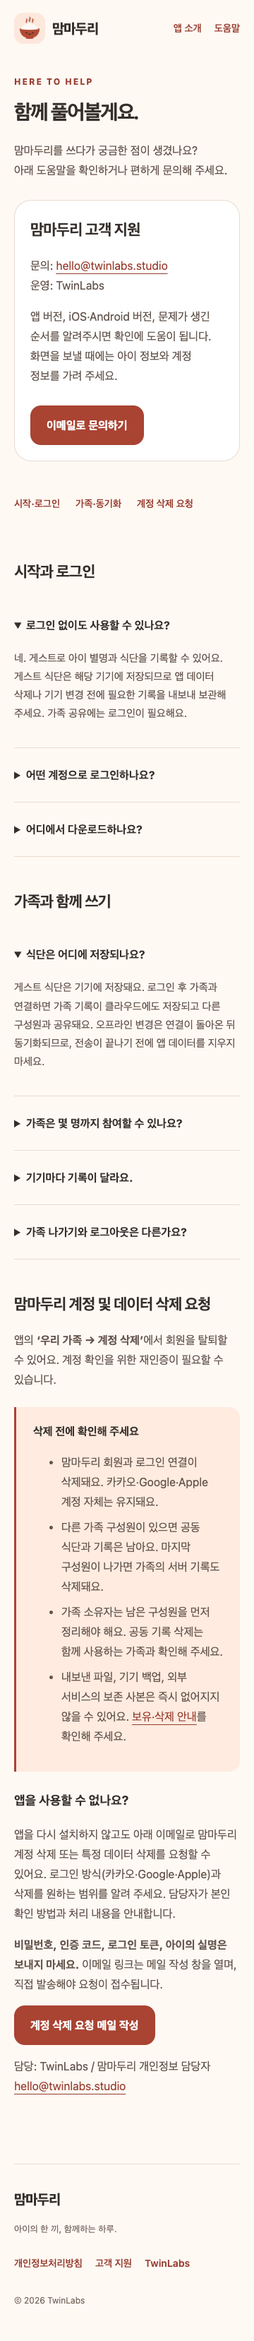
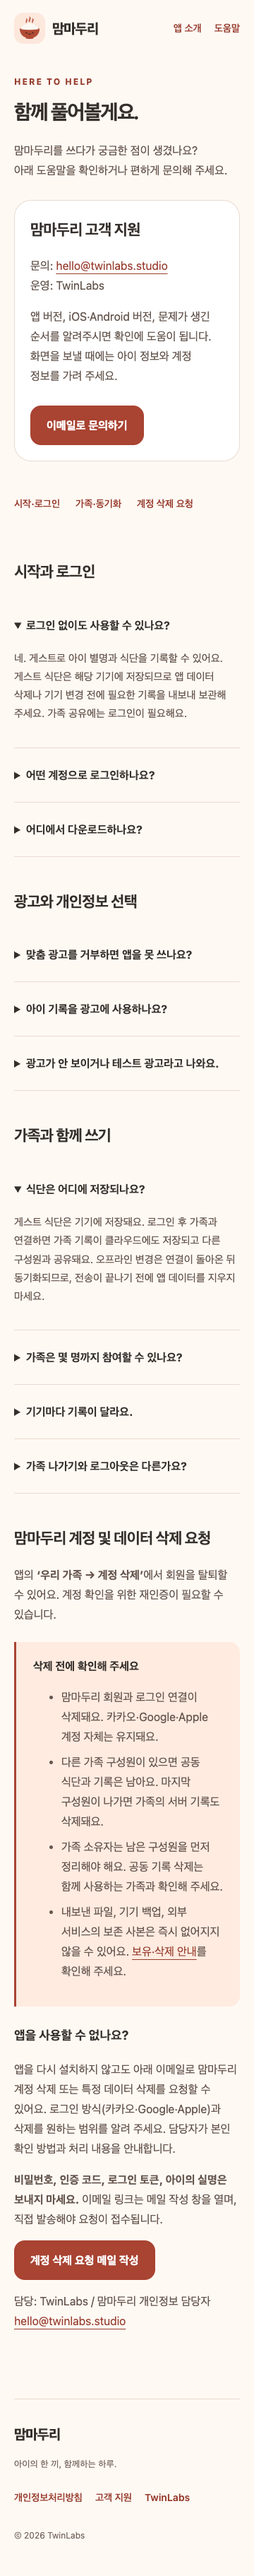
Update Mammaduri privacy and advertising disclosures

diff --git a/mammaduri/privacy-policy.html b/mammaduri/privacy-policy.html
@@ -6,10 +6,10 @@
     <meta name="robots" content="noindex" />
     <meta
       name="description"
-      content="맘마두리의 기기 저장, 로그인, 가족 공유와 개인정보 삭제에 관한 안내 검토본."
+      content="맘마두리의 기기 저장, 로그인, 가족 공유, 광고와 개인정보 삭제에 관한 안내."
     />
     <meta name="theme-color" content="#fff9f4" />
-    <title>개인정보처리방침 검토본 · 맘마두리</title>
+    <title>개인정보처리방침 · 맘마두리</title>
     <link rel="icon" href="assets/icon.png" />
     <link rel="stylesheet" href="style.css" />
   </head>
@@ -30,18 +30,15 @@
         운영자: TwinLabs<br />개인정보 문의: 맘마두리 개인정보 담당자 ·
         <a href="mailto:hello@twinlabs.studio">hello@twinlabs.studio</a>
       </p>
-      <aside class="notice" aria-label="검토본 상태">
-        <strong>시행 전 검토본</strong>
-        <p>작성일: 2026년 10월 5일 · 시행일: 공개 전 확정</p>
-        <p>
-          현재 개발 버전의 동작을 기준으로 작성했습니다. 아래 ‘공개 전 확인
-          사항’을 확정한 뒤 정식 방침으로 게시합니다.
-        </p>
+      <aside class="notice" aria-label="방침 시행일">
+        <strong>맘마두리 개인정보처리방침</strong>
+        <p>시행일·최종 수정일: 2026년 10월 21일</p>
+        <p>현재 제공하는 식단 기록·가족 공유·광고 기능에 적용됩니다. 테스트 광고를 사용하는 버전도 광고 SDK의 정보 처리가 발생할 수 있습니다.</p>
       </aside>
       <nav class="toc" aria-label="방침 목차">
         <a href="#data">처리 정보</a><a href="#storage">저장·공유</a
         ><a href="#services">외부 서비스</a><a href="#retention">보유·삭제</a
-        ><a href="#rights">권리·문의</a><a href="#review">공개 전 확인</a>
+        ><a href="#advertising">광고·선택</a><a href="#rights">권리·문의</a><a href="#review">방침 변경</a>
       </nav>
       <section id="data">
         <h2>1. 어떤 정보를 왜 처리하나요?</h2>
@@ -90,6 +87,17 @@
                 </td>
               </tr>
               <tr>
+                <td>광고와 선택 정보</td>
+                <td>IP 주소와 이에 따른 대략적 위치, 광고·기기 식별자,
+                  광고 노출·상호작용 및 앱·SDK 진단 정보. 광고 제공·측정·부정 이용
+                  방지에 사용될 수 있습니다. 개인화 선택은 기기에 저장하며,
+                  지역별 동의 신호는 Google의 동의 관리 기능이 처리합니다.</td>
+              </tr>
+              <tr>
+                <td>서비스 보호</td>
+                <td>접속·오류·보안 로그, 기기·앱의 유효성 확인 신호, 요청 제한용으로 가공한 식별값과 횟수. 무단 접근·과도한 요청 방지에 사용합니다. 요청 제한 자료는 1일 후 만료 대상으로 설정하며 실제 정리 시점은 저장소 처리에 따릅니다.</td>
+              </tr>
+              <tr>
                 <td>문의</td>
                 <td>
                   발신 이메일, 사용자가 보낸 문의 및 첨부 자료. 문의 답변과 문제
@@ -100,9 +108,11 @@
           </table>
         </div>
         <p>
-          현재 버전에는 광고·분석·충돌 수집 SDK가 포함되어 있지 않습니다. 향후
-          처리 항목이나 목적이 달라지면 방침과 필요한 안내 절차를 먼저
-          정비합니다.
+          Google AdMob 광고 SDK와 동의 관리 기능을 사용합니다.
+          현재 개발·검증 빌드는 테스트 광고를 사용합니다. 광고 SDK는 광고 제공,
+          효과 측정과 부정 이용 방지를 위해 기기·접속·이용·진단 정보를 처리할 수
+          있습니다. 별도의 Firebase Analytics·Crashlytics는 사용하지 않지만,
+          광고 SDK 자체의 측정·진단 처리는 존재합니다.
         </p>
       </section>
       <section id="storage">
@@ -149,7 +159,7 @@
             처리됩니다.
           </li>
           <li>
-            <strong>Cloud Firestore·Cloud Functions:</strong> 현재 개발 환경의
+            <strong>Cloud Firestore·Cloud Functions:</strong> 운영 환경의
             가족 기록 저장소와 서버 함수는 서울 리전(asia-northeast3)입니다.
             모든 인증·운영 정보가 국내에만 저장된다는 뜻은 아닙니다.
           </li>
@@ -158,18 +168,21 @@
             계정 및 앱을 검증하고 Firebase 인증과 연결합니다.
           </li>
           <li>
+            <strong>Google AdMob 및 동의 관리:</strong> 광고·동의 처리를 위해
+            Google에 관련 정보가 전달될 수 있습니다. Firebase에 저장한 식단을
+            광고 타기팅 정보로 전달하지 않습니다. Google의 처리 범위는 동의,
+            기기 권한과 광고 유형에 따라 달라집니다.
+          </li>
+          <li>
             <strong>웹사이트:</strong> 정적 호스팅에 GitHub Pages를 사용합니다.
             GitHub는 보안 목적으로 방문자의 IP 주소 등 접속 정보를 처리할 수
             있습니다. 이 페이지에는 별도 광고·방문 분석 스크립트를 넣지
             않았습니다.
           </li>
         </ul>
-        <p>
-          수탁자 법인명·업무 범위, 국외 이전
-          대상·국가·시점·방법·보유기간·연락처·법적 근거 및 거부 방법은 운영
-          계약을 확인해 정식 방침에 확정해야 합니다. 위 내용만으로 법정 국외
-          이전 고지나 동의 절차가 완료된 것은 아닙니다.
-        </p>
+        <p>인증·저장·서버 운영은 Google Firebase에 위탁하며, Google AdMob은 광고와 동의를 처리합니다. Google은 미국을 포함한 여러 국가에서 서버를 운영합니다. 서울에 저장하는 가족 기록과 미국에서 처리되는 인증 정보를 구분합니다. 서비스 이용 시 암호화된 네트워크로 필요한 정보가 전송됩니다.</p>
+        <p>Google의 개인정보 문의는 <a href="https://policies.google.com/privacy?hl=ko">Google 개인정보처리방침의 연락처·권리 행사 안내</a>를 이용할 수 있습니다. 카카오·Google·Apple 로그인은 이용자가 선택한 제공자의 인증 화면을 거치며, 각 제공자가 자체 계정을 처리하는 조건은 해당 서비스의 방침을 따릅니다.</p>
+        <p>로그인과 가족 동기화를 원하지 않으면 게스트 식단 기능을 이용할 수 있습니다. 광고의 맞춤 설정은 아래 방법으로 제한할 수 있지만, 비개인화 광고도 기기·접속 정보 등을 처리할 수 있습니다. 앱에서 발생하는 외부 전송 전부를 거부하려면 앱 사용을 중단하고, 기존 자료 삭제는 아래 문의 경로로 요청할 수 있습니다.</p>
         <p>
           외부 서비스 설명:
           <a href="https://firebase.google.com/support/privacy"
@@ -214,10 +227,39 @@
           </li>
         </ul>
         <p>
-          문의 메일, 서버 운영 로그 및 백업의 구체적 보유기간·파기 절차는 공개
-          전 확정 항목입니다. 법령상 보존 의무가 적용되면 그 항목·근거·기간을
-          정식 방침에 구체적으로 안내합니다.
+          문의 메일과 첨부자료는 문의 해결 후 1년간 보관한 뒤 삭제합니다.
+          일반 서버 로그는 30일, Google Cloud 필수 감사 로그는 400일 보관합니다.
+          가족 기록의 일일 백업은 7일 보관합니다. 삭제된 기록도 기존 백업에는 만료까지 남을 수 있습니다.
+          복원 시 삭제 자료가 다시 사용되지 않도록 내용 없이 대상 식별자와 삭제 시각을 별도 보관하며,
+          관련 백업 만료와 진행 중 복구 종료를 확인한 뒤 정리합니다. 삭제 이력은 단순히 7일 후 자동 삭제되는 자료가 아닙니다.
+          전자 자료는 서비스의 삭제 기능과 저장소 정리 절차로 제거합니다.
         </p>
+      </section>
+      <section id="advertising">
+        <h2>광고와 개인정보 선택</h2>
+        <p>맘마두리는 광고가 포함된 무료 앱입니다. 개인화 선택을
+          거부해도 식단 기능을 이용할 수 있습니다. 광고는 일부 조회 화면의 하단에
+          표시하며 입력·로그인·가족 관리 화면에서는 표시하지 않습니다.</p>
+        <ul>
+          <li>앱의 ‘설정 → 광고 및 개인정보’에서 ‘맞춤 광고 허용’ 또는
+            ‘맞춤 광고 없이 계속’을 선택하고 나중에 바꿀 수 있습니다.</li>
+          <li>지역에 따라 Google 동의 양식이 표시됩니다. 필요한 경우 같은 설정의
+            ‘개인정보 선택 변경’에서 해당 선택을 변경할 수 있습니다.</li>
+          <li>iOS에서는 별도의 추적 권한도 확인합니다. 추적을 허용하지 않으면
+            개인화를 제한합니다. 이미 결정한 권한은 기기 설정에서 변경할 수 있습니다.</li>
+          <li>‘맞춤 광고 없이 계속’은 광고 제거 또는 모든 데이터 처리 중단을 뜻하지
+            않습니다. 허용되는 범위에서 비개인화 광고 등이 표시될 수 있습니다.</li>
+          <li>아이 별명·메뉴·식사 반응·가족 식별자와 앱의 회원 식별자를 광고 요청의
+            타기팅 정보로 보내지 않습니다. 광고 SDK의 기기·접속 정보 처리는 별개입니다.</li>
+          <li>선택 변경은 이후 광고 요청에 반영됩니다. 맘마두리 회원 탈퇴나 선택 철회가
+            Google의 기존 광고 정보까지 즉시 삭제하는 것은 아닙니다.</li>
+        </ul>
+        <p>Google의 처리 및 개인정보 관리 방법은
+          <a href="https://policies.google.com/privacy">Google 개인정보처리방침</a>과
+          <a href="https://policies.google.com/technologies/partner-sites">Google 파트너 서비스의 데이터 이용 안내</a>에서 확인할 수 있습니다.
+          Google의 광고 데이터 보관·삭제는 정보 유형과 처리 목적에 따라 달라지며,
+          앱의 식단 삭제나 문의 메일 1년 보관 기준이 Google의 광고 자료에 그대로 적용되는 것은 아닙니다.
+          <a href="https://policies.google.com/technologies/retention?hl=ko">Google 데이터 보관 안내</a>를 참고해 주세요.</p>
       </section>
       <section id="rights">
         <h2>5. 열람·수정·삭제와 문의</h2>
@@ -242,25 +284,16 @@
           잠금과 내보낸 파일의 보관은 사용 기기 환경에 맞게 관리해 주세요.
         </p>
         <p>
-          보호자가 입력하는 아이 정보도 개인정보가 될 수 있습니다. 만 14세 미만
-          아동 정보에 대한 법정대리인 동의 및 확인 절차의 적용 여부와 구현을
-          공개 전에 검토합니다. 별명 사용만으로 이러한 의무가 없어지는 것은
-          아닙니다.
+          맘마두리는 성인 보호자가 사용하는 앱이며 아동의 직접 가입을 대상으로 하지 않습니다.
+          본인이 법정대리인이거나 적법한 권한을 가진 아이의 기록만 입력하고 공유해 주세요.
+          아이 별명도 다른 정보와 결합하면 개인정보가 될 수 있습니다. 법정대리인은 아이 정보의 열람·정정·삭제를 요청할 수 있습니다.
+          현재 앱에서 별도의 법정대리인 본인확인을 수행하지는 않습니다.
         </p>
       </section>
       <section id="review">
-        <h2>7. 공개 전 확인 사항</h2>
-        <aside class="notice" aria-label="정식 공개 전 확인 목록">
-          <ul>
-            <li>운영 환경의 위탁 계약과 국외 이전 고지·동의 요건 확정</li>
-            <li>문의 메일·운영 로그·백업의 보유기간과 파기 절차 확정</li>
-            <li>아동 정보 처리에 필요한 보호자 동의·확인 절차 검토</li>
-            <li>
-              앱 내 방침 연결과 필수 안내 반영, 시행일 및 변경 고지 절차 확정
-            </li>
-          </ul>
-        </aside>
-        <p>정식 방침이 확정되면 이 페이지에 시행일과 변경 내용을 안내합니다.</p>
+        <h2>7. 방침 변경</h2>
+        <p>처리 항목·목적·보유 기준 등이 바뀌면 이 페이지의 시행일과 변경 내용을 갱신하고, 별도 안내나 동의가 필요한 경우 해당 절차를 진행합니다.</p>
+        <p>2026년 10월 21일: 광고 SDK·선택 방법, 운영 서버·로그·백업 보관, 문의 보관 및 삭제 이력 안내를 반영했습니다.</p>
       </section>
     </main>
     <footer class="wrap footer">

diff --git a/mammaduri/support.html b/mammaduri/support.html
@@ -77,6 +77,27 @@
           </p>
         </details>
       </section>
+      <section id="advertising">
+        <h2>광고와 개인정보 선택</h2>
+        <details>
+          <summary>맞춤 광고를 거부하면 앱을 못 쓰나요?</summary>
+          <p>아니요. 식단 기능은 그대로 사용할 수 있어요. ‘설정 → 광고 및 개인정보’에서
+            선택을 바꿀 수 있고, 지역에 따라 ‘개인정보 선택 변경’도 표시돼요.
+            맞춤 광고를 끄더라도 허용 범위에서 비개인화 광고가 표시될 수 있어요.</p>
+        </details>
+        <details>
+          <summary>아이 기록을 광고에 사용하나요?</summary>
+          <p>아이 별명·식단·반응과 가족·회원 식별자를 광고 타기팅 정보로 보내지 않아요.
+            광고 SDK는 기기 식별자, 접속·광고 이용·진단 정보를 처리할 수 있어요.
+            <a href="privacy-policy.html#advertising">광고 개인정보 안내</a>를 확인해 주세요.</p>
+        </details>
+        <details>
+          <summary>광고가 안 보이거나 테스트 광고라고 나와요.</summary>
+          <p>현재 개발·검증 빌드는 테스트 광고를 사용해요. 입력·가족 화면,
+            동의·기기 권한 상태 또는 네트워크 상황에 따라 광고가 표시되지 않을 수 있어요.
+            광고가 없어도 식단은 사용할 수 있어요.</p>
+        </details>
+      </section>
       <section id="sync">
         <h2>가족과 함께 쓰기</h2>
         <details open>
